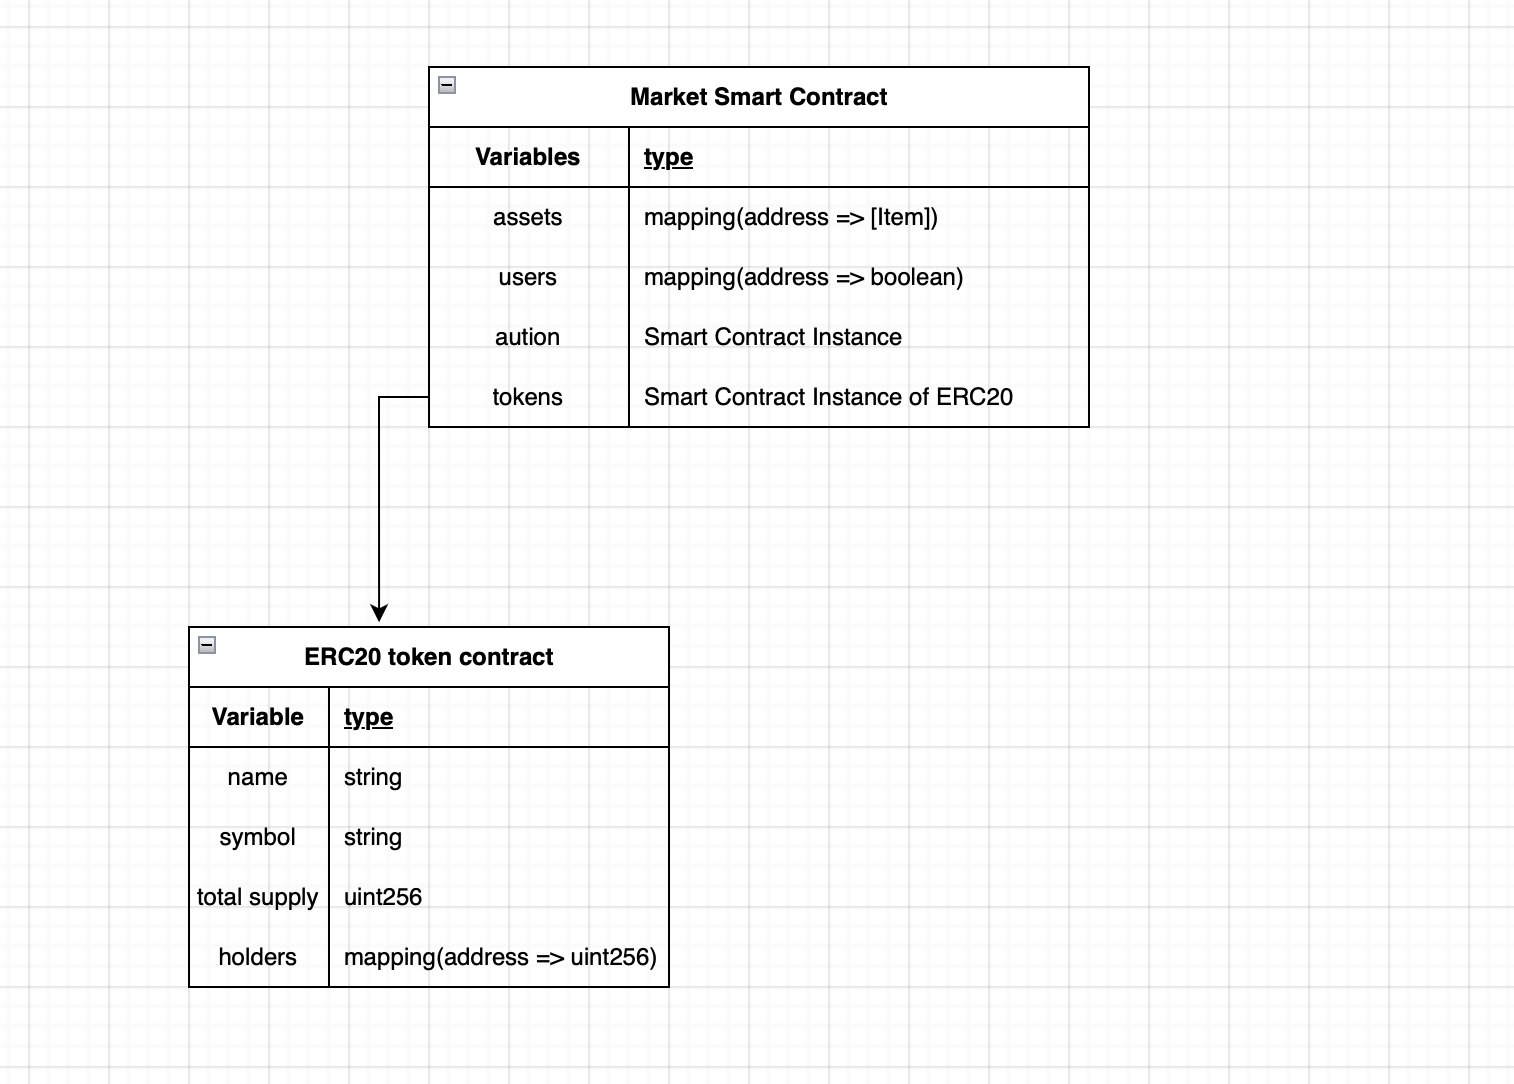
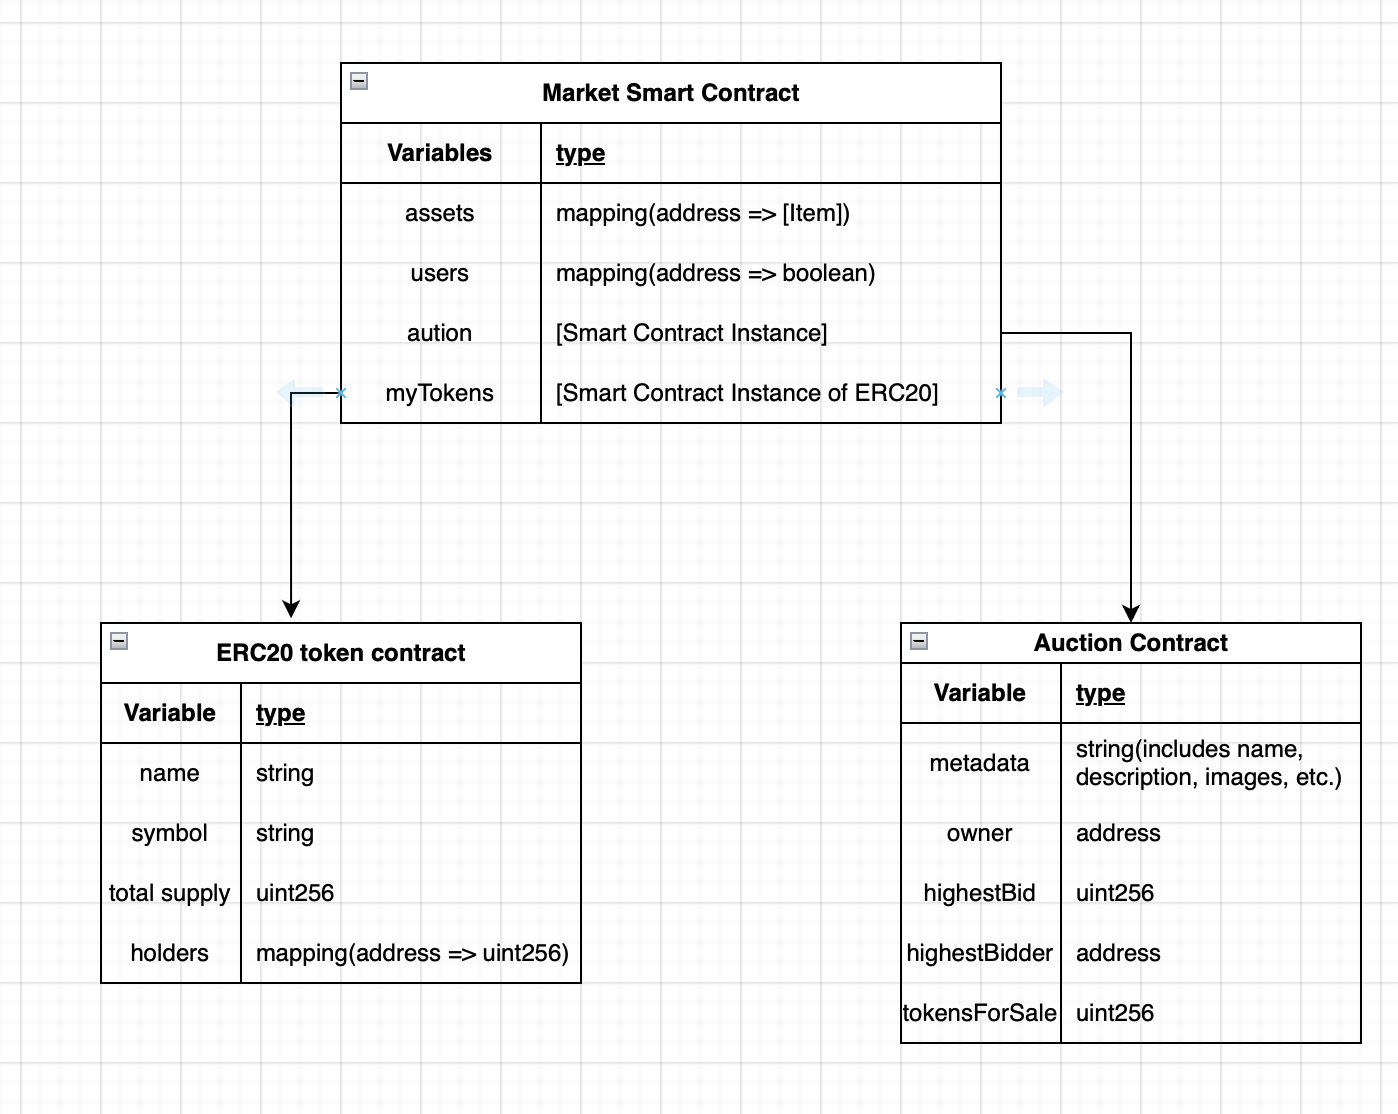
First Iteration of Smart Contract Workflow Added

diff --git a/eth-online/README.md b/eth-online/README.md
@@ -1,3 +1,7 @@
 # Sytem design for ETH Online Project
 
+## Smart Contract Part
+
+### First Iteration
+
 ![Image](../src/image.png)
